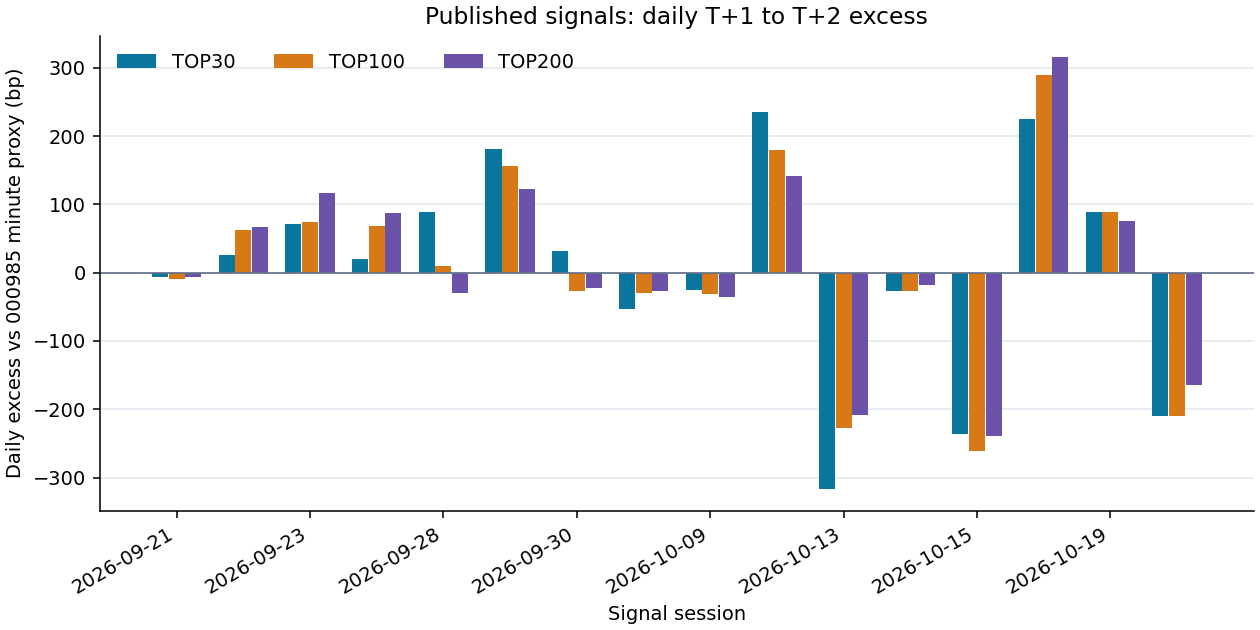
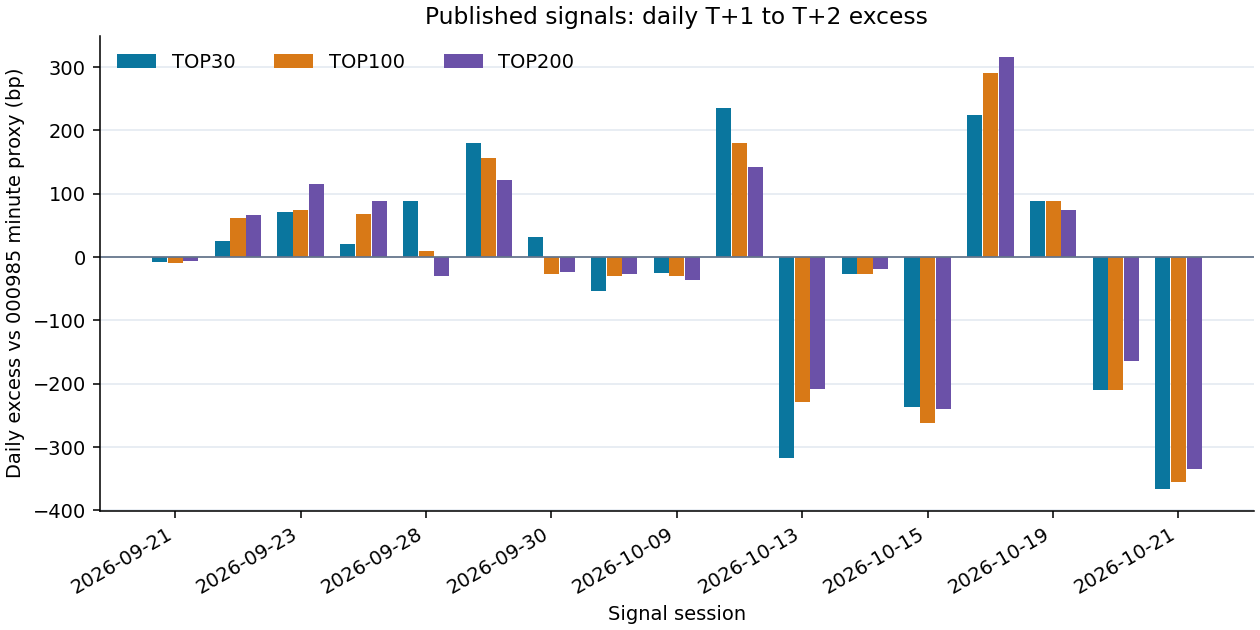
Update published signal performance through 2026-10-23

diff --git a/README.md b/README.md
@@ -17,13 +17,13 @@ CSV 编码为 UTF-8 BOM，按 `signal` 降序排列。
 <!-- PUBLIC_PERFORMANCE_START -->
 ## 已发布信号的历史表现
 
-仅统计本仓库 `signals/YYYY-MM-DD.csv` 已上传且买卖两日行情均完整的信号；截至 **2026-10-22**，共有 **16** 个已完成信号日，另有 **2** 个待结算或数据未齐。样本很短，暂无统计显著性结论。
+仅统计本仓库 `signals/YYYY-MM-DD.csv` 已上传且买卖两日行情均完整的信号；截至 **2026-10-23**，共有 **17** 个已完成信号日，另有 **2** 个待结算或数据未齐。样本很短，暂无统计显著性结论。
 
 | 组合 | 已完成信号日 | 组合累计收益 | 000985同期收益 | 累计超额 |
 |---|---:|---:|---:|---:|
-| TOP30 | 16 | -11.98% | -12.49% | +0.58% |
-| TOP100 | 16 | -11.80% | -12.49% | +0.79% |
-| TOP200 | 16 | -11.16% | -12.49% | +1.52% |
+| TOP30 | 17 | -16.71% | -13.99% | -3.17% |
+| TOP100 | 17 | -16.43% | -13.99% | -2.84% |
+| TOP200 | 17 | -15.64% | -13.99% | -1.93% |
 
 ![TOP30、TOP100、TOP200 累计超额净值](performance/excess_nav.png)
 
@@ -33,7 +33,6 @@ CSV 编码为 UTF-8 BOM，按 `signal` 降序排列。
 
 | 信号日 | 卖出日 | TOP30 | TOP100 | TOP200 |
 |---|---|---:|---:|---:|
-| 2026-09-30 | 2026-10-09 | +31.18 | -27.33 | -22.80 |
 | 2026-10-08 | 2026-10-12 | -53.19 | -30.43 | -27.09 |
 | 2026-10-09 | 2026-10-13 | -25.56 | -30.50 | -36.28 |
 | 2026-10-12 | 2026-10-14 | +235.12 | +180.05 | +142.29 |
@@ -43,6 +42,7 @@ CSV 编码为 UTF-8 BOM，按 `signal` 降序排列。
 | 2026-10-16 | 2026-10-20 | +224.57 | +290.26 | +315.78 |
 | 2026-10-19 | 2026-10-21 | +88.42 | +88.98 | +75.06 |
 | 2026-10-20 | 2026-10-22 | -209.83 | -209.68 | -164.75 |
+| 2026-10-21 | 2026-10-23 | -366.22 | -354.51 | -334.00 |
 
 ![TOP30、TOP100、TOP200 逐日超额](performance/daily_excess.png)
 
